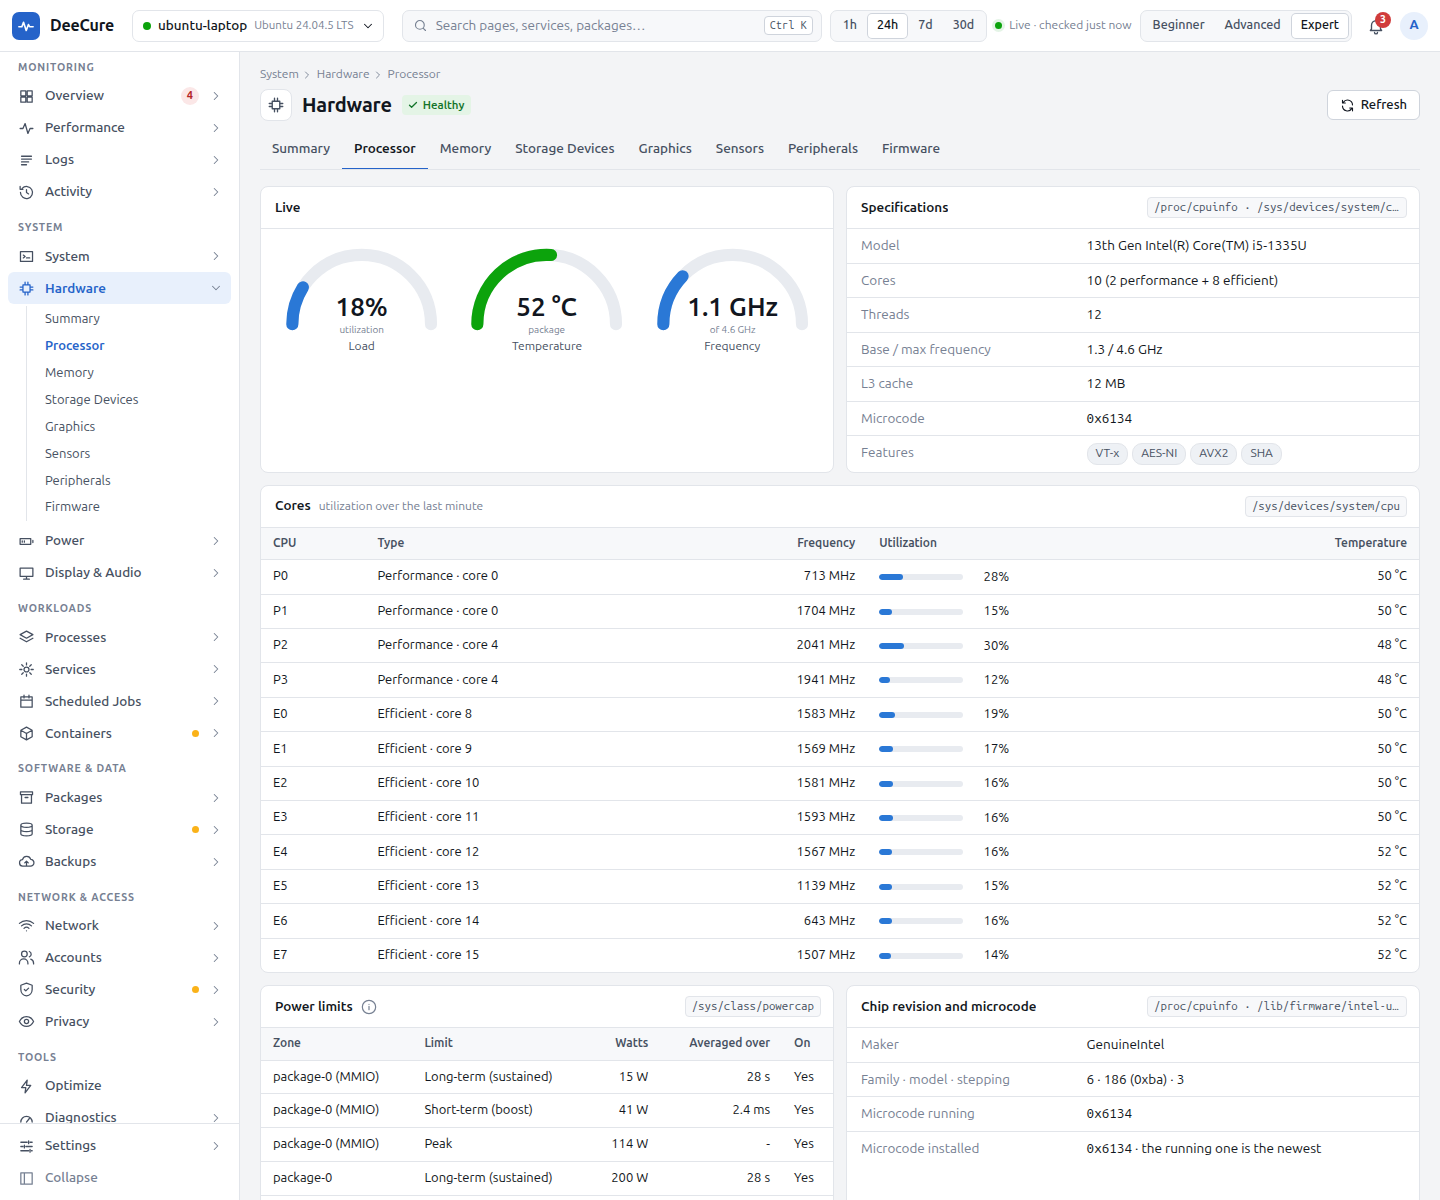
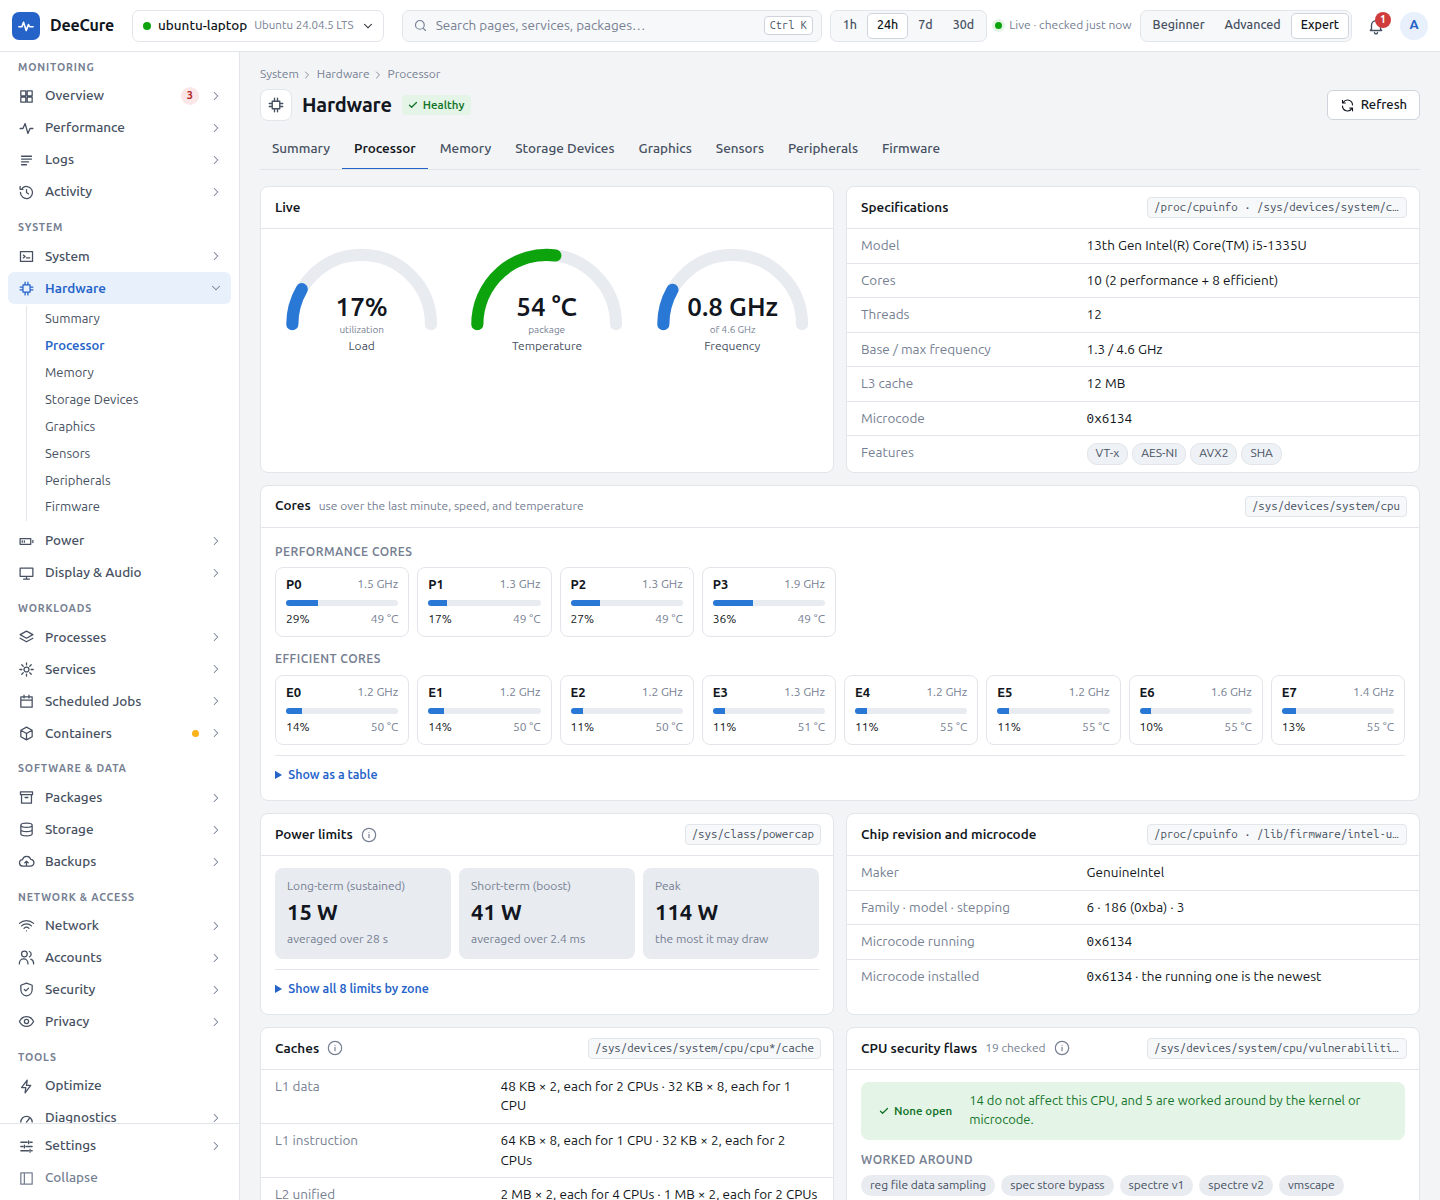
docs: Readable pages, where-to-look markers, warning fixes, new screenshots

diff --git a/README.md b/README.md
@@ -11,7 +11,7 @@
 
 <picture>
   <source media="(prefers-color-scheme: dark)" srcset="docs/07-user-guide/images/deecure-expert-overview-health-dashboard-dark.png">
-  <img src="docs/07-user-guide/images/deecure-expert-overview-health-dashboard.png" alt="DeeCure Overview on Ubuntu: health score 85, CPU, GPU, memory, disk, network, and battery tiles, a 24-hour CPU, GPU, and memory chart, active issues, and subsystem status">
+  <img src="docs/07-user-guide/images/deecure-expert-overview-health-dashboard.png" alt="DeeCure Overview on Ubuntu: health score 95, CPU, GPU, memory, disk, network, and battery tiles, a 24-hour CPU, GPU, and memory chart, active issues, and subsystem status">
 </picture>
 
 *The Overview on a real Ubuntu 24.04 laptop: health score, CPU, GPU, memory, disk, network, and battery at a glance, with the problems to look at. Every screenshot here is the Expert view; the Beginner view shows the same in fewer pages. [More screenshots](#what-the-expert-view-shows).*
@@ -79,9 +79,18 @@ It works without a password for looking around. It never changes anything unless
 
 - **Harm, not use:** a CPU at 100%, memory full of cache, or a busy disk never warns. Stalls, errors, heat, wear, and risk do.
 - **Each part's own limits:** temperatures are checked against the limit each CPU, drive, graphics card, and Wi-Fi chip reports about itself.
-- **No false alarms from spikes:** most warnings need the problem to last, for example 5 minutes near the limit.
+- **No false alarms from spikes:** most warnings need the problem to last, for example 5 minutes near the limit. A short turbo burst that touches the CPU's limit while it is cool is normal and never warns.
+- **Never out of date:** a warning that DeeCure cannot confirm for a day closes, so old numbers never stay on screen.
 - **Your rules:** turn any warning off or change when it fires. The safe default is shown next to your value.
 - **55 warnings** across CPU, memory, disks, battery, temperatures, fans, graphics, hardware errors, services, packages, network, and security. [Full list](docs/01-product/health-warnings.md)
+
+### Easy to read, and it shows where to look
+
+- **The answer first:** every page starts with a short summary (counts, a green "all fine" line, or the few things worth a look), then bars, tiles, and charts. Long lists show 8 rows with **Show all**, and full tables wait under **Show all**, so nothing is hidden and nothing overwhelms.
+- **Where is the problem?** A warning puts a dot on its page and on the exact sub-page in the sidebar. That sub-page opens with the warning explained at the top, a **Show where** button, and the panel behind it outlined.
+- **Every open issue as a card**, most serious first, with the area it belongs to, how to fix it, **Open**, and **Fix**.
+
+![DeeCure open issues on Ubuntu: each problem as a card with its severity, the page that shows it, a plain explanation, how to fix it, and Open and Fix buttons](docs/07-user-guide/images/deecure-expert-open-issues.png)
 
 ### A complete, honest view of your hardware
 
@@ -113,7 +122,7 @@ Every fix shows its steps and commands first. Untick any step. Admin steps ask f
 ### What changed, forecasts, and notifications
 
 - **Timeline** of package installs and upgrades (apt, snap, Flatpak), config changes, USB devices, boots, crashes, and hardware errors, for the last 7, 30, or 90 days.
-- **Disk forecast:** "full in about N days", only when the disk keeps filling, so one big install never causes a false alarm.
+- **Disk forecast:** "full in about N days", only when the disk keeps filling over both the last day and the last 3 days, so one big install or a snapshot never causes a false alarm. It works on a laptop that sleeps at night.
 - **Notifications** for critical problems, with quiet hours, and a weekly summary of your computer's health.
 
 ![DeeCure Activity timeline: what changed on this Linux computer, with package upgrades, config file changes, USB devices, and boots, filtered by the last 7, 30, or 90 days](docs/07-user-guide/images/deecure-expert-activity-timeline.png)
@@ -135,7 +144,7 @@ Switch at any time from the top bar. [View levels](docs/01-product/view-levels.m
 <table>
   <tr>
     <td width="50%"><a href="docs/07-user-guide/images/deecure-expert-processor-cores-power-limits.png"><img src="docs/07-user-guide/images/deecure-expert-processor-cores-power-limits.png" alt="DeeCure Expert view of the processor on Linux: live load, temperature, and frequency gauges, specifications, every performance and efficient core with its speed, use, and temperature, and the chip's power limits"></a><br><b>Processor:</b> every core's speed, use, and temperature, and the chip's power limits.</td>
-    <td width="50%"><a href="docs/07-user-guide/images/deecure-expert-temperature-sensors-fans.png"><img src="docs/07-user-guide/images/deecure-expert-temperature-sensors-fans.png" alt="DeeCure temperature sensors on a Linux laptop: CPU, NVMe SSD, and battery temperatures, a 24-hour temperature history with the throttle line, fan speeds, and thermal zones with their slow-down and shut-down limits"></a><br><b>Sensors:</b> every temperature with its own limits, fans, and thermal zones.</td>
+    <td width="50%"><a href="docs/07-user-guide/images/deecure-expert-temperature-sensors-fans.png"><img src="docs/07-user-guide/images/deecure-expert-temperature-sensors-fans.png" alt="DeeCure temperature sensors on a Linux laptop: CPU, NVMe SSD, and battery temperatures, a 24-hour temperature history with the throttle line, fan speeds, and thermal zones as bars of the room left before the system slows down"></a><br><b>Sensors:</b> every temperature with its own limits, fans, and thermal zones.</td>
   </tr>
   <tr>
     <td width="50%"><a href="docs/07-user-guide/images/deecure-expert-nvme-ssd-details.png"><img src="docs/07-user-guide/images/deecure-expert-nvme-ssd-details.png" alt="DeeCure NVMe SSD details on Linux: drive model and firmware, temperature history, the drive's own warning and critical temperatures, PCIe link at full speed, block size, scheduler, and weekly TRIM"></a><br><b>Drives:</b> NVMe details, the drive's own limits, PCIe link speed, and TRIM.</td>
@@ -147,7 +156,7 @@ Switch at any time from the top bar. [View levels](docs/01-product/view-levels.m
   </tr>
   <tr>
     <td width="50%"><a href="docs/07-user-guide/images/deecure-expert-memory-map.png"><img src="docs/07-user-guide/images/deecure-expert-memory-map.png" alt="DeeCure memory page on Linux: what fills RAM as one bar with cache striped, a plain-language verdict, memory usage over 24 hours, where memory goes in detail, and the apps, services, and processes using the most memory"></a><br><b>Memory:</b> what really fills RAM, what can be freed, and who uses it.</td>
-    <td width="50%"><a href="docs/07-user-guide/images/deecure-expert-health-score-breakdown.png"><img src="docs/07-user-guide/images/deecure-expert-health-score-breakdown.png" alt="DeeCure health score breakdown: 100 minus the points each area loses equals 85, and a card per area with its points kept, status, and open problems"></a><br><b>Health score:</b> how the score is reached, area by area.</td>
+    <td width="50%"><a href="docs/07-user-guide/images/deecure-expert-health-score-breakdown.png"><img src="docs/07-user-guide/images/deecure-expert-health-score-breakdown.png" alt="DeeCure health score breakdown: 100 minus the points each area loses equals 95, and a card per area with its points kept, status, and open problems"></a><br><b>Health score:</b> how the score is reached, area by area.</td>
   </tr>
 </table>
 

diff --git a/docs/07-user-guide/using-deecure.md b/docs/07-user-guide/using-deecure.md
@@ -36,7 +36,19 @@ Then a first check runs. Each area turns green, yellow, or red as it finishes. Y
 - **Subsystems:** all 13 areas (hardware, power, storage, network, security, and more), each with a number and a status. Click a row to open its page.
 - **Active issues:** the problems, most serious first. Each has a button to fix or look.
 
+**Overview › Issues** shows every open problem as a card: its level (colored edge), the page and sub-page it belongs to, what it means, **How to fix** (click to open the steps), **Open** (goes to that sub-page), and **Fix** when DeeCure can fix it.
+
 Status words always come with a color and an icon: **Healthy** (green), **Warning** (yellow), **Critical** (red), **Info** (blue).
+
+### Finding where a problem is
+
+- In the sidebar, a page with a problem has a yellow (warning) or red (critical) dot. Open its list of sub-pages: the sub-page that shows the problem has the same dot.
+- That sub-page starts with a box that says what is wrong. **Show where** scrolls to the panel behind it, which has a colored outline and a "Warning here" label. **Fix** is there too when DeeCure can fix it.
+- Clicking a notification opens that sub-page.
+
+### Reading a page
+
+Each page starts with the answer: a few counts, a green line when all is fine, or only the things worth a look. Then bars, tiles, and charts. Lists longer than 8 rows show 8 and a **Show all** button; search and filters always look through every row. Full tables are folded under **Show all**.
 
 ## 3. Fix a problem
 
@@ -83,6 +95,8 @@ DeeCure warns about things that can harm the computer, not about normal use: a b
 - **Each part's own limits:** temperatures are judged against the limit the CPU, drive, graphics card, or Wi-Fi chip reports itself.
 - **Only when it lasts:** most warnings need the problem to go on for a few minutes, so a short spike never warns.
 - **Each warning says** what was measured, why it matters, and what to do, with a **Fix** button or a help page.
+- **Never out of date:** if DeeCure cannot confirm a warning for a whole day (for example the laptop was mostly off), the warning closes instead of showing old numbers.
+- **Normal behavior is not a problem:** a CPU that touches its limit for a split second in a turbo burst while it is cool, a disk that jumped once (an install, a snapshot) and then stayed flat, and ports that Docker opens (a firewall cannot block those; the container warning covers them) do not warn as heat, "disk filling", or "firewall".
 
 To change them, switch to Advanced or Expert, then open **Settings › Notifications › Warnings and limits**:
 

diff --git a/docs/05-roadmap/pending.md b/docs/05-roadmap/pending.md
@@ -4,7 +4,7 @@
 
 **Read this first when you continue the work.** It says where the project stands, what is left in order, and how to work here. When an item is done, delete it here and note it in the phase's Progress table and in `CHANGELOG.md`.
 
-Last updated: 2026-11-02: step 6 (admin reads in the helper) is built, except eBPF traffic counters. Released as `v0.1.0-alpha.5`.
+Last updated: 2026-11-02: step 6 (admin reads in the helper) is built, except eBPF traffic counters. Released as `v0.1.0-alpha.5`. After that release, on `main` and not released yet (next: `v0.1.0-alpha.6`): a readability pass on every page (summaries first, bars and tiles, tables of more than 8 rows show 8 with Show all, full tables under Show all), warnings shown where they are (sidebar dot on the sub-page, a box at the top of it with Show where and Fix, the panel outlined), Overview › Issues as cards, and four warning fixes found on a real laptop: the disk forecast (sleep gaps and emptying), stale warnings close after a day, heat slowdowns count only while the CPU is hot, and the firewall warning counts each port once and leaves out Docker's.
 
 ## 1. Where the project stands
 

diff --git a/docs/03-ui-design/03-components/01-panel.md b/docs/03-ui-design/03-components/01-panel.md
@@ -5,6 +5,7 @@
 - `--panel` background, 1px `--line` border, radius 8, vertical flex.
 - **Header** (optional, min-height 42, padding 0 12 0 14, bottom border): title (13.5px 600), optional subtitle (12px muted, e.g. "last 7 days"), optional info icon (16px circled "i", muted; hover/focus shows a tooltip: `--ink` background, `--panel` text, 12px, max-width 260px, radius 6, below-left). Right side: **source chip** (mono 11.5px, `--panel-2`, 1px border, radius 4, max-width 260 with ellipsis; **visible only in Expert mode**), then small action buttons.
 - **Body:** padding 12 14 14. Tables, lists, checklists, timelines and forms use a flush body (padding 0).
+- **Warning here:** when an open warning on this sub-page is shown by this panel ([Page status](../04-behavior/page-status.md)), the panel gets a 1px outline in the warning color (`--warn`, or `--crit` for critical) around its border, and a "Warning here" ("Problem here") badge after the title. A panel whose title goes on after " ·" (such as "Battery details · BAT0") matches too.
 
 ---
 
